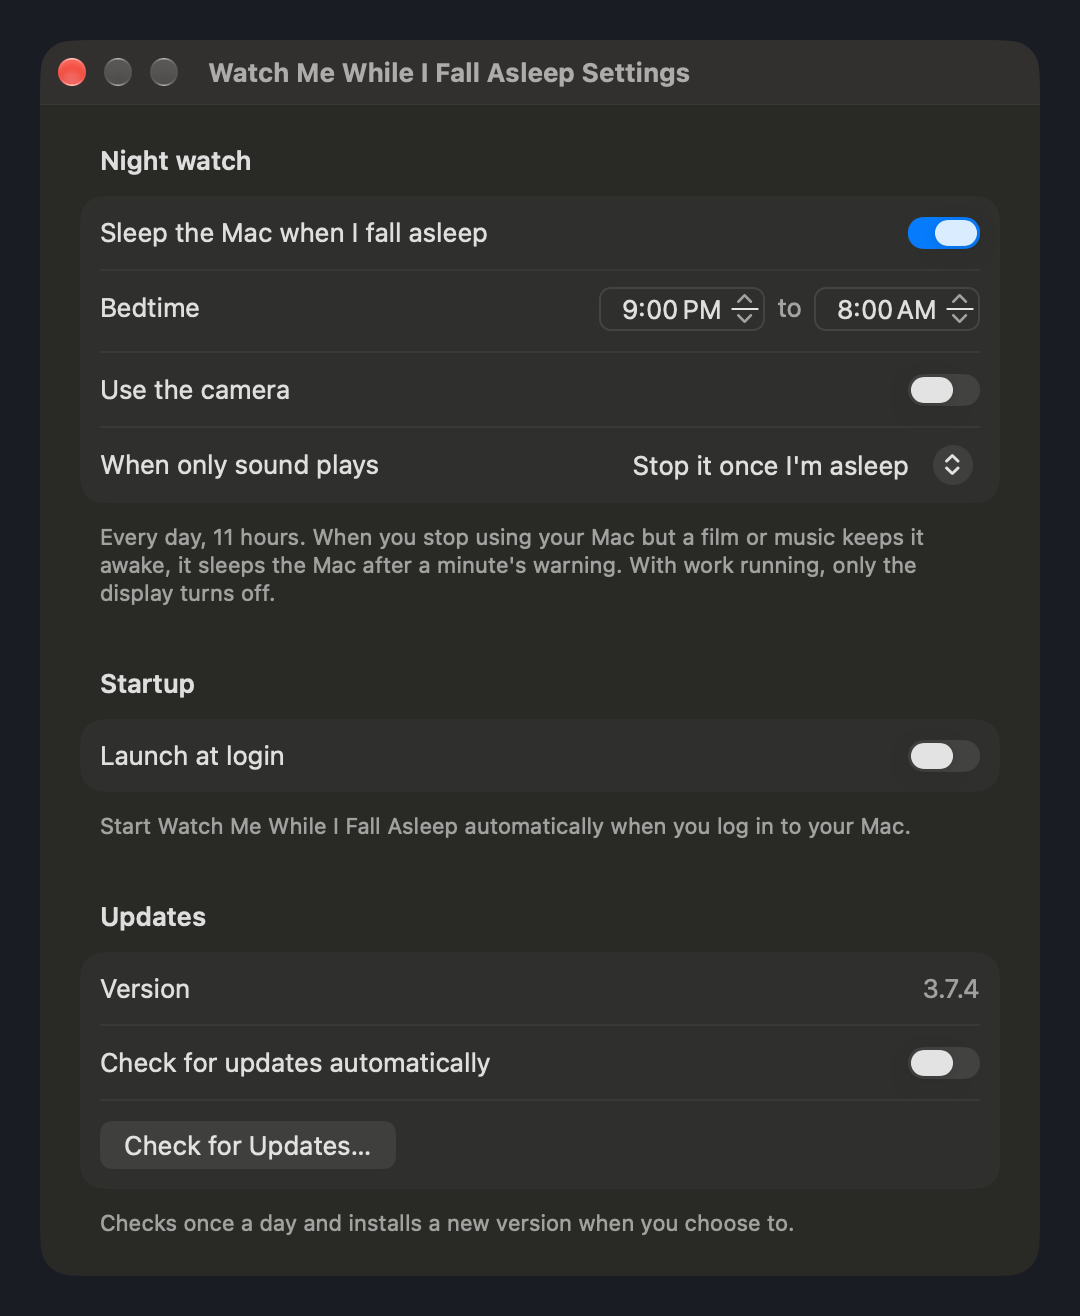
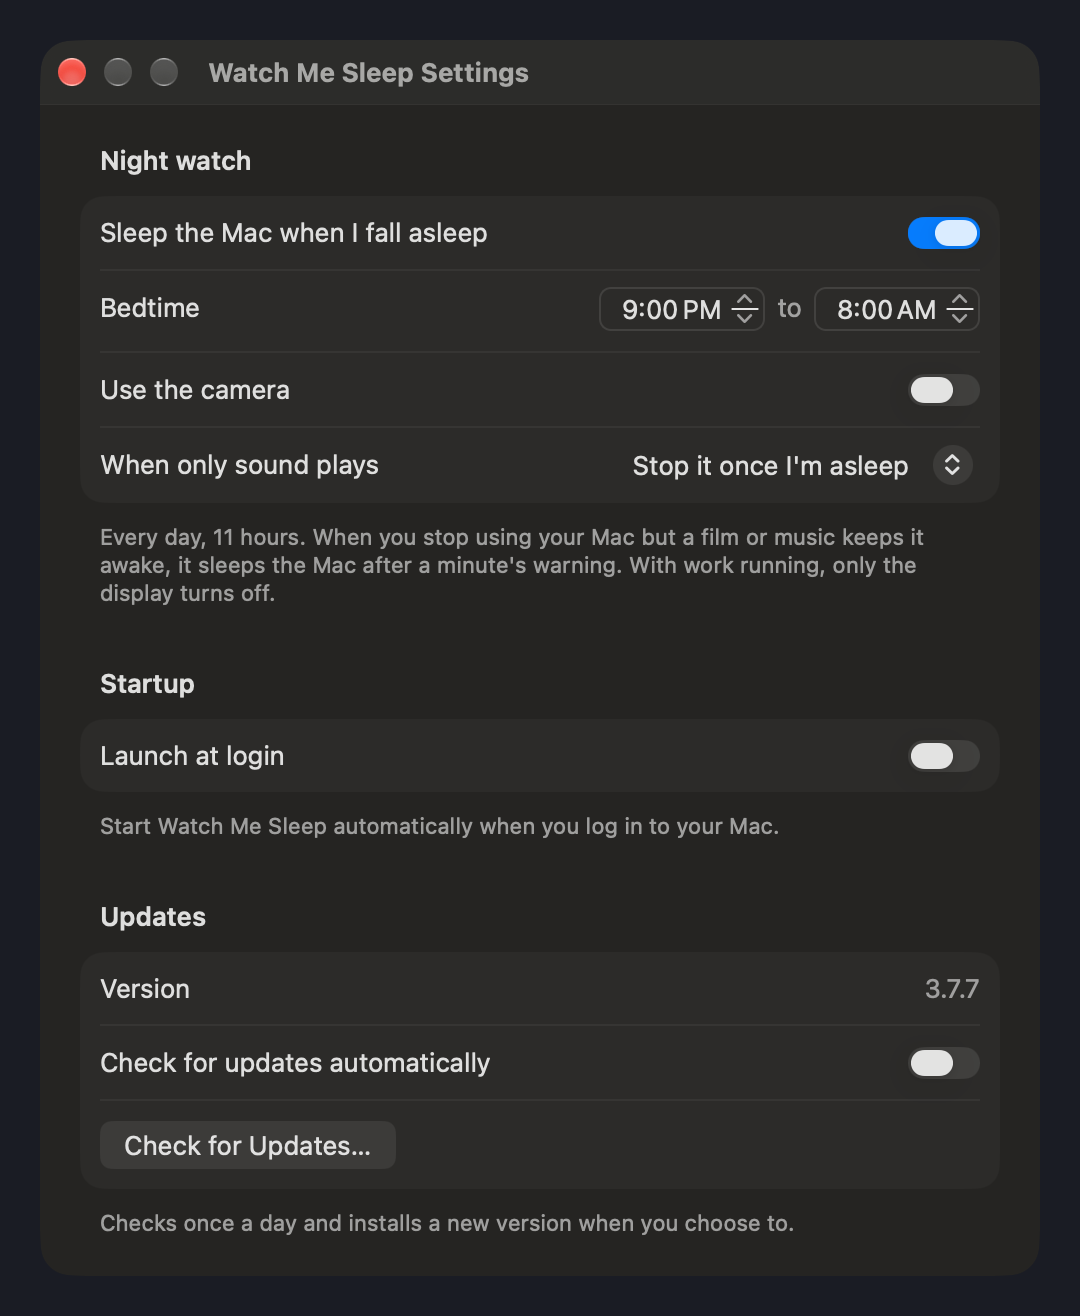
Rename the app to Watch Me Sleep

Changed region(s): [[0.2444, 0.6231, 0.825, 0.6543], [0.3056, 0.0312, 0.6417, 0.0623], [0.8556, 0.7477, 0.9167, 0.7789]]

diff --git a/Sources/WatchMeSleep/WatchMeSleepApp.swift b/Sources/WatchMeSleep/WatchMeSleepApp.swift
@@ -23,7 +23,7 @@ struct WatchMeSleepApp: App {
             // The default item opened "Help isn’t available" (UX-09); the
             // README is the app's documentation.
             CommandGroup(replacing: .help) {
-                Button("Watch Me While I Fall Asleep Help") {
+                Button("Watch Me Sleep Help") {
                     if let url = URL(string: "https://github.com/wiltodelta/watch-me-sleep#readme") {
                         NSWorkspace.shared.open(url)
                     }
@@ -84,7 +84,7 @@ class AppDelegate: NSObject, NSApplicationDelegate {
             button.target = self
             // VoiceOver reads the image-only button by this label (HIG: provide an
             // accessibility label for every icon); the countdown is its value.
-            button.setAccessibilityLabel("Watch Me While I Fall Asleep")
+            button.setAccessibilityLabel("Watch Me Sleep")
             button.sendAction(on: [.leftMouseUp, .rightMouseUp])
             addShowMenuAction(to: button)
         }
@@ -263,7 +263,7 @@ class AppDelegate: NSObject, NSApplicationDelegate {
         menu.addItem(update)
 
         // The standard selector lets macOS 26+ give the item its system icon.
-        menu.addItem(NSMenuItem(title: "Quit Watch Me While I Fall Asleep",
+        menu.addItem(NSMenuItem(title: "Quit Watch Me Sleep",
                                 action: #selector(NSApplication.terminate(_:)), keyEquivalent: "q"))
         // Keep images in the timer and app-action groups, leaving the status
         // row and separators to the system's default visibility.
@@ -323,7 +323,7 @@ class AppDelegate: NSObject, NSApplicationDelegate {
         if settingsWindow == nil {
             let hosting = NSHostingController(rootView: SettingsView())
             let window = NSWindow(contentViewController: hosting)
-            window.title = "Watch Me While I Fall Asleep Settings"
+            window.title = "Watch Me Sleep Settings"
             window.styleMask = [.titled, .closable]
             window.isReleasedWhenClosed = false
             window.delegate = self

diff --git a/Sources/WatchMeSleepCore/LaunchAtLoginManager.swift b/Sources/WatchMeSleepCore/LaunchAtLoginManager.swift
@@ -57,7 +57,7 @@ public final class LaunchAtLoginManager: ObservableObject {
             // is thrown, so say where to allow it.
             awaitingApproval = enabled && service.status == .requiresApproval
             errorMessage = awaitingApproval
-                ? "allow Watch Me While I Fall Asleep in System Settings > General > Login Items."
+                ? "allow Watch Me Sleep in System Settings > General > Login Items."
                 : nil
         } catch {
             awaitingApproval = false

diff --git a/Sources/WatchMeSleepCore/SettingsView.swift b/Sources/WatchMeSleepCore/SettingsView.swift
@@ -143,7 +143,7 @@ public struct SettingsView: View {
             Text("Startup")
         } footer: {
             Text(launchManager.errorMessage.map { "Couldn't change this: \($0)" }
-                 ?? "Start Watch Me While I Fall Asleep automatically when you log in to your Mac.")
+                 ?? "Start Watch Me Sleep automatically when you log in to your Mac.")
                 .foregroundStyle(Color.secondaryText)
         }
     }

diff --git a/docs/build-and-release.md b/docs/build-and-release.md
@@ -9,11 +9,11 @@ it the bundle is signed ad hoc and camera access re-prompts after every
 rebuild. `RELEASE=1 ./create-app.sh && ./notarize.sh` notarizes, staples, and
 writes the release zip.
 
-`./create-app.sh` produces `Watch Me While I Fall Asleep Dev.app`, with `Dev`
+`./create-app.sh` produces `Watch Me Sleep Dev.app`, with `Dev`
 in both bundle name fields and the separate
 `com.wiltodelta.watchmesleep.dev` identifier. This distinguishes it from the
 release in Privacy & Security, Login Items, and other macOS app lists.
-`RELEASE=1` produces **Watch Me While I Fall Asleep.app** with the release
+`RELEASE=1` produces **Watch Me Sleep.app** with the release
 identifier. CI branch builds use `./notarize.sh --zip-only` to package the Dev
 bundle under the existing versioned zip filename; this mode does not notarize
 or publish it.
@@ -49,6 +49,17 @@ EdDSA key serves every app of the team; `SUPublicEDKey` in `create-app.sh` is
 its public half, and `SURequireSignedFeed` makes the app reject a feed that is
 not signed with it.
 
+## App name and existing installations
+
+The app is now named **Watch Me Sleep**. New downloads contain
+`Watch Me Sleep.app`; release archives use `Watch-Me-Sleep-vX.Y.Z-macOS.zip`.
+The release bundle identifier, update feed and signing keys stay the same.
+Sparkle 2.10 matches a renamed incoming bundle by its identifier
+(`Autoupdate/SUInstaller.m`), so an existing installation can receive it.
+The bundled Sparkle uses the host's existing installation path, so updating
+an older installation can leave the old `.app` folder name on disk even
+though the new name appears inside the app.
+
 ## Bundle identifier
 
 `com.wiltodelta.watchmesleep` is registered as an explicit App ID for team
@@ -60,6 +71,6 @@ keyed to it.
 ```bash
 gh release download vX.Y.Z -p "*.zip" -D /tmp/asset-check && \
   ditto -x -k /tmp/asset-check/*.zip /tmp/asset-check/app && \
-  spctl -a -vv "/tmp/asset-check/app/Watch Me While I Fall Asleep.app" && \
-  xcrun stapler validate "/tmp/asset-check/app/Watch Me While I Fall Asleep.app"
+  spctl -a -vv "/tmp/asset-check/app/Watch Me Sleep.app" && \
+  xcrun stapler validate "/tmp/asset-check/app/Watch Me Sleep.app"
 ```

diff --git a/docs/usage.md b/docs/usage.md
@@ -1,4 +1,4 @@
-# Using Watch Me While I Fall Asleep
+# Using Watch Me Sleep
 
 The app lives in the menu bar. Click the moon for the main panel, or
 right-click it for timer presets, Settings and update checks.
@@ -67,7 +67,7 @@ volume changes are preserved.
 
 Right-click the icon for a quick menu that shows what the night watch is doing,
 starts a timer with the panel's presets, stops the current one, opens Settings,
-or checks for updates. **Help > Watch Me While I Fall Asleep Help** opens the [README](../README.md).
+or checks for updates. **Help > Watch Me Sleep Help** opens the [README](../README.md).
 
 ## Settings
 
@@ -98,9 +98,9 @@ Automatic checks can be turned off in Settings.
 
 ## Troubleshooting
 
-- **"Watch Me While I Fall Asleep is damaged and can't be opened":** releases
+- **"Watch Me Sleep is damaged and can't be opened":** releases
   before 2.1.0 were not notarized. Update to the latest release, or clear the
-  quarantine flag with `xattr -cr "/Applications/Watch Me While I Fall Asleep.app"`.
+  quarantine flag with `xattr -cr "/Applications/Watch Me Sleep.app"`.
 - **Only the display turned off:** work was holding the Mac awake, and the app
   leaves it running. See what with `pmset -g assertions`.
 - **The camera never looks:** enable the app under System Settings > Privacy &
@@ -118,7 +118,7 @@ Automatic checks can be turned off in Settings.
 
 ## Uninstall
 
-Quit the app from its panel, then move **Watch Me While I Fall Asleep.app** to
+Quit the app from its panel, then move **Watch Me Sleep.app** to
 the Trash. To remove its settings too:
 
 ```bash

diff --git a/README.md b/README.md
@@ -1,4 +1,4 @@
-# Watch Me While I Fall Asleep
+# Watch Me Sleep
 
 **Let your Mac fall asleep when you do.**
 
@@ -88,7 +88,7 @@ on macOS 26 and later.
 
 1. [Download the latest release](https://github.com/wiltodelta/watch-me-sleep/releases/latest)
    and unzip it.
-2. Move **Watch Me While I Fall Asleep.app** to **Applications** and open it.
+2. Move **Watch Me Sleep.app** to **Applications** and open it.
 3. Click the moon in the menu bar and open **Settings…**. Choose your bedtime
    and whether to use the camera. Turn on **Launch at login** if you want the
    app ready each night.
@@ -133,10 +133,10 @@ and Apple's frameworks, with Sparkle as its only external dependency.
 git clone https://github.com/wiltodelta/watch-me-sleep.git
 cd watch-me-sleep
 ./create-app.sh
-open "Watch Me While I Fall Asleep Dev.app"
+open "Watch Me Sleep Dev.app"
 ```
 
-Local builds are named **Watch Me While I Fall Asleep Dev**, with a separate
+Local builds are named **Watch Me Sleep Dev**, with a separate
 development bundle identifier and settings.
 The build script signs with the team's Developer ID when available and
 otherwise uses an ad hoc signature.

diff --git a/docs/screenshots.md b/docs/screenshots.md
@@ -1,7 +1,7 @@
 # README screenshots
 
 Run `./capture-screenshots.sh` from an unlocked macOS session. It builds and
-signs `Watch Me While I Fall Asleep Dev.app`, then captures the idle panel,
+signs `Watch Me Sleep Dev.app`, then captures the idle panel,
 running timer and Settings in light and dark appearances. Use `light` or `dark`
 as an argument to regenerate one appearance. The terminal needs Accessibility and Screen
 Recording access. Leave the Mac alone while the script opens windows.

diff --git a/CLAUDE.md b/CLAUDE.md
@@ -1,4 +1,4 @@
-# Watch Me While I Fall Asleep
+# Watch Me Sleep
 
 You are a **principal Swift/macOS engineer** maintaining a menu bar app that puts the Mac to sleep once its user falls asleep: one automatic night watch (`SleepSupervisor`) plus a manual timer (`TimerManager`) that every sleep goes through. SwiftPM; the one dependency is Sparkle (in-place updates, `Updater`; packaging and keys in `docs/build-and-release.md`).
 
